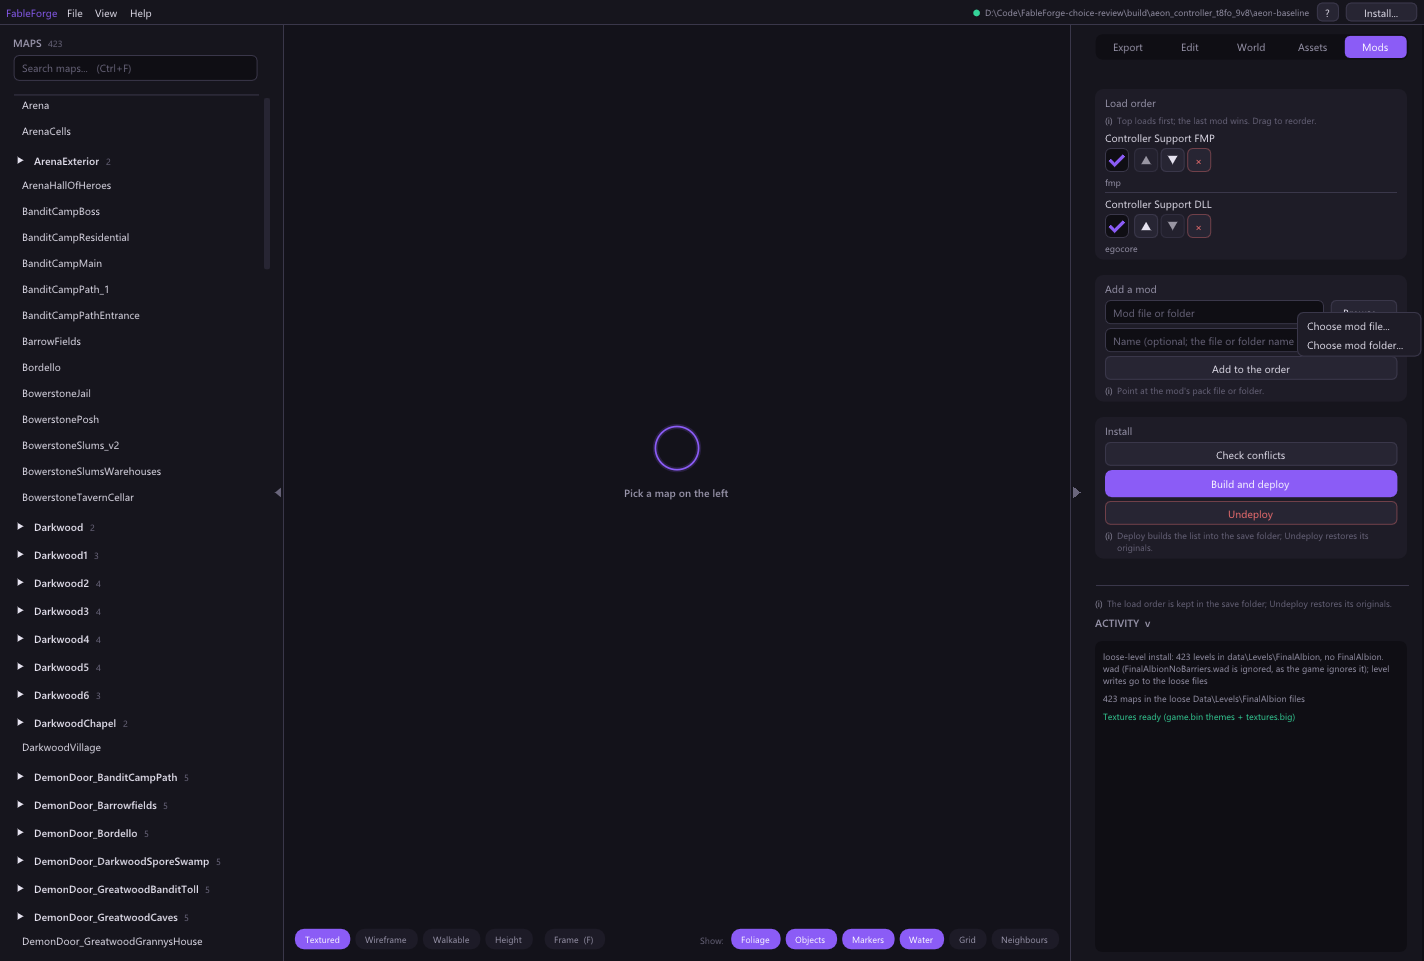
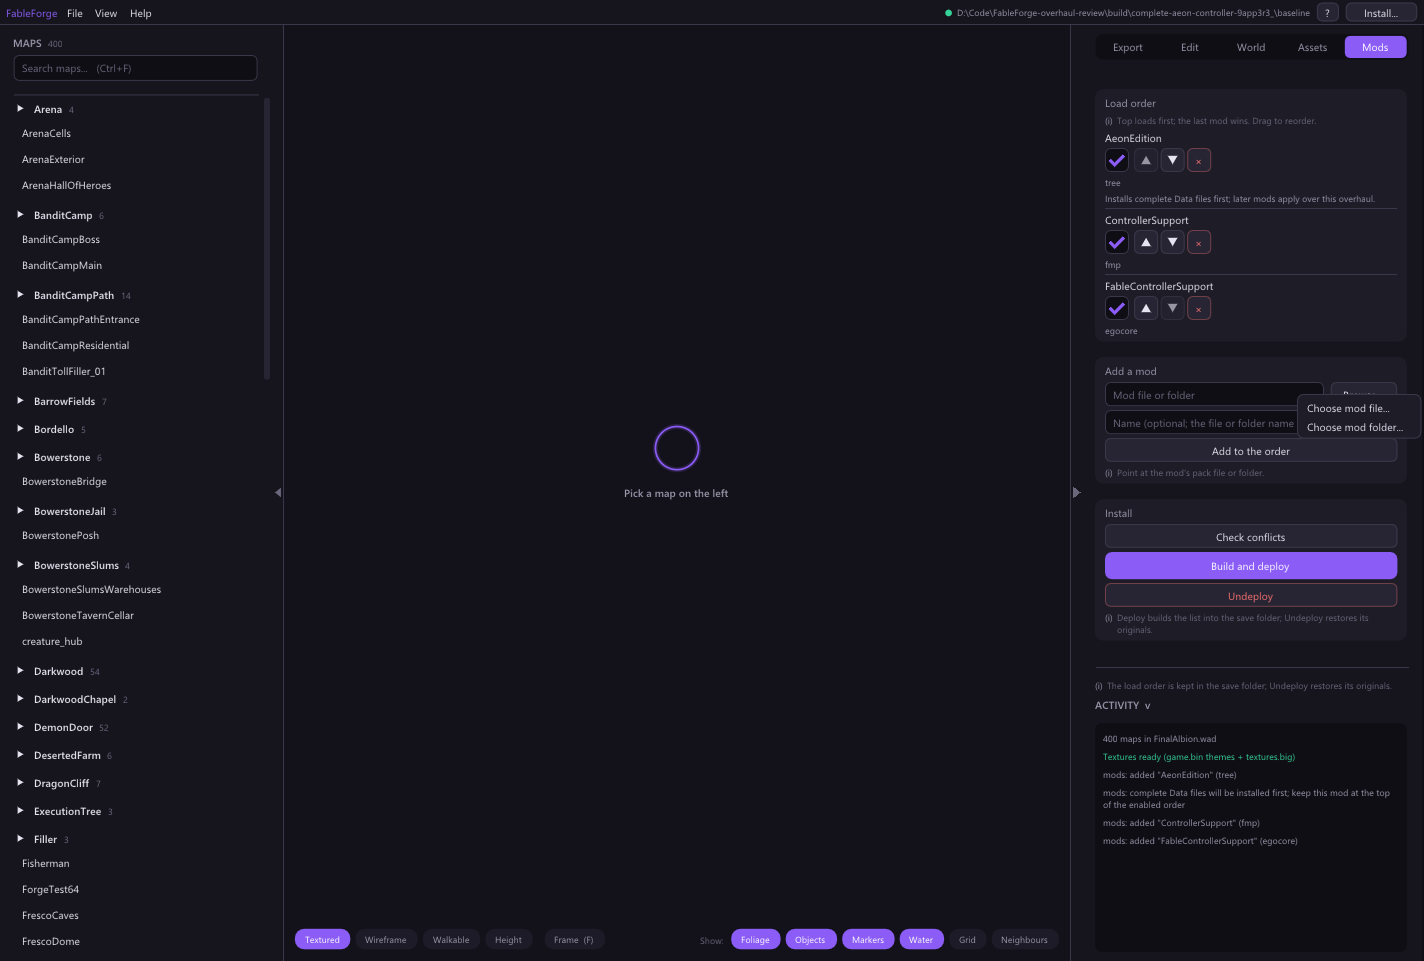
fix: validate complete Aeon installation and guide
(cherry picked from commit 571d2d05c88be84a5fdac0f08303395926a84dd1)

diff --git a/docs/walkthrough/aeon-controller/index.html b/docs/walkthrough/aeon-controller/index.html
@@ -45,5 +45,5 @@
 <p>Copy the complete game folder, including <code>Mods</code>, <code>Mods.ini</code> and EgoCore runtime files, to a separate location in the Android Windows environment you use. Keep the known working PC copy. Use the same runtime-loading route.</p>
 <p>If it crashes, compare separate copies of the unmodified game, Aeon alone and Aeon with the controller. Record the exact crash point, executable version, Windows environment/version and available loader or crash logs.</p></section>
 <p><strong>Offline preservation checks:</strong> Forge's original three-source route preserves all 16,362 existing Aeon records outside the five intended FMP imports, including all 6,625 unnamed entries. All 14 supported controller references resolve. The test checks 942 other source files, all 843 authored level payloads in the rebuilt WAD, the unchanged DLL and unchanged source inventories. Small packed and loose fixtures also check deployment and exact undeployment.</p>
-<p><small>Updated 3 October 2026. The original author Discord reports drive these installer regression checks. Third-party game/mod files are not included. No gameplay or Android test was performed.</small></p>
+<p><small>Updated 4 October 2026. The screenshots show the actual three-source GUI run on a disposable game copy. The original author Discord reports drive these installer regression checks. Third-party game/mod files are not included. No gameplay or Android test was performed.</small></p>
 </main></html>

diff --git a/tools/capture_complete_aeon_guide.py b/tools/capture_complete_aeon_guide.py
@@ -1,8 +1,23 @@
 #!/usr/bin/env python3
 """Exercise original three sources via actual GUI Add and capture the guide."""
-import argparse, json, os, shutil, subprocess, time
+import argparse, hashlib, json, os, shutil, subprocess, time
 from pathlib import Path
 from test_mod_bank_refusal import snapshot
+
+
+def install_snapshot(root, registered):
+    if not registered:
+        return {k:v for k,v in snapshot(root).items() if k != 'forge_mods.json'}
+    # The original full tree was checked during the normal run. The resumed
+    # compact run checks every path plus the installed banks/WAD/graphics.
+    paths = sorted(str(p.relative_to(root)) for p in root.rglob('*') if p.is_file()
+                   and p.name != 'forge_mods.json')
+    selected = [p for p in paths if p.startswith('data\\CompiledDefs\\') or
+                p.startswith('data/CompiledDefs/') or
+                p.replace('\\','/') in ('data/Levels/FinalAlbion.wad',
+                                         'data/graphics/graphics.big')]
+    return {'paths':paths, 'digests':{p:hashlib.sha256((root/p).read_bytes()).hexdigest()
+                                     for p in selected}}
 
 
 def main():
@@ -11,6 +26,9 @@ def main():
     p.add_argument('evidence', type=Path)
     p.add_argument('--corpus', type=Path, required=True)
     p.add_argument('--install', type=Path, required=True)
+    p.add_argument('--registered', action='store_true',
+                   help='Resume from an order whose three sources were already added by the GUI')
+    p.add_argument('--size', choices=('normal', 'compact', 'both'), default='both')
     args = p.parse_args()
     work = args.evidence.resolve()
     assert work.parent == (repo/'build').resolve() and work.name.startswith('complete-aeon-controller-')
@@ -18,25 +36,38 @@ def main():
     root = work/'baseline'
     assert not (root/'forge_stage_manifest.json').exists()
     # Complete the owned baseline's GUI preview assets; the live install is read only.
-    shutil.copytree(args.install/'data/graphics', root/'data/graphics', dirs_exist_ok=True)
-    original = {k:v for k,v in snapshot(root).items() if k != 'forge_mods.json'}
+    if not args.registered:
+        shutil.copytree(args.install/'data/graphics', root/'data/graphics', dirs_exist_ok=True)
+    else:
+        assert (root/'data/graphics/graphics.big').is_file()
+    original = install_snapshot(root, args.registered)
     sources = [args.corpus/'AeonEdition/Data', args.corpus/'ControllerSupportFMP/ControllerSupport.fmp',
                args.corpus/'FableControllerSupport/Mods/FableControllerSupport']
+    if args.registered:
+        order = json.loads((root/'forge_mods.json').read_text())['mods']
+        assert len(order) == 3 and order[0]['install_data']
+        assert Path(order[0]['source']) == sources[0].parent
+        assert [Path(row['source']) for row in order[1:]] == sources[1:]
     shots = repo/'docs/walkthrough/aeon-controller'
     def button(name, wait=False):
         lines = [f'reveal {name}','frames 3',f'reveal {name}','frames 3',f'click {name}','frames 3']
         return lines+(['wait_mods','wait_ready','frames 3'] if wait else [])
-    for size,scale in [('1440x1000',1),('800x600',1.5)]:
+    sizes = {'normal':[('1440x1000',1)], 'compact':[('800x600',1.5)],
+             'both':[('1440x1000',1),('800x600',1.5)]}[args.size]
+    for size,scale in sizes:
         case = work/(f'gui-{size}-{time.time_ns()}'); case.mkdir()
-        if (root/'forge_mods.json').exists(): (root/'forge_mods.json').unlink()
+        if not args.registered and (root/'forge_mods.json').exists(): (root/'forge_mods.json').unlink()
         script = case/'guide.txt'
         # Never use preexisting guide illustrations as deployment checkpoints.
         # Publish captures into docs only after the entire owned GUI run passes.
         images = case
         lines = ['wait_maps','wait_ready','setup 0',f'set uiscale {scale}','mods_tab 1','frames 4']
-        for index, source in enumerate(sources):
-            lines += button('input_mod_path')+[f'text_input {source.as_posix()}','frames 3']
-            lines += button('btn_mod_add')+[f'assert_state mods_count {index+1}']
+        if args.registered:
+            lines += ['assert_state mods_count 3']
+        else:
+            for index, source in enumerate(sources):
+                lines += button('input_mod_path')+[f'text_input {source.as_posix()}','frames 3']
+                lines += button('btn_mod_add')+[f'assert_state mods_count {index+1}']
         lines += ['assert_state mod_action_failed 0','clear_toasts',
                   f'screenshot {(images/"01-order.png").as_posix()}']
         lines += button('input_mod_path_browse')+[f'screenshot {(images/"02-add.png").as_posix()}',
@@ -59,7 +90,7 @@ def main():
                 env=dict(os.environ,FABLEFORGE_AUTOMATION_HIDDEN='1',APPDATA=str(case/'appdata'),
                          LOCALAPPDATA=str(case/'localappdata')))
             try:
-                deadline = time.monotonic()+1800
+                deadline = time.monotonic()+7200
                 checkpoint = images/'04-deploy.png'
                 while not checkpoint.exists() and proc.poll() is None and time.monotonic()<deadline:
                     time.sleep(.1)
@@ -76,13 +107,16 @@ def main():
         order = json.loads((root/'forge_mods.json').read_text())['mods']
         assert len(order)==3 and order[0]['install_data']
         assert Path(order[0]['source'])==sources[0].parent
-        assert {k:v for k,v in snapshot(root).items() if k!='forge_mods.json'} == original
+        assert install_snapshot(root, args.registered) == original
         if scale == 1:
             for name in ('01-order.png','02-add.png','03-check.png','04-deploy.png'):
                 shutil.copyfile(case/name, shots/name)
-        print(size,'original three sources, actual Add/check/deploy/redeploy/undeploy: PASS',flush=True)
-    (work/'gui-result.json').write_text(json.dumps({'passed':True,'sizes':['1440x1000','800x600'],
-                                                  'gameplay_tested':False},indent=2))
+        steps = 'registered order/check/deploy/redeploy/undeploy' if args.registered else \
+                'actual Add/check/deploy/redeploy/undeploy'
+        print(size,'original three sources, '+steps+': PASS',flush=True)
+    (work/f'gui-result-{args.size}.json').write_text(json.dumps(
+        {'passed':True,'sizes':[size for size,_ in sizes],
+         'registered_order':args.registered,'gameplay_tested':False},indent=2))
 
 
 if __name__ == '__main__': main()

diff --git a/tools/test_unreadable_file_compare.py b/tools/test_unreadable_file_compare.py
@@ -1,0 +1,65 @@
+#!/usr/bin/env python3
+"""A locked same-size source must never be treated as unchanged."""
+import argparse
+import ctypes
+import hashlib
+import json
+import subprocess
+import tempfile
+from pathlib import Path
+from test_mod_field_details import write_bank
+
+
+def digest(path):
+    return hashlib.sha256(path.read_bytes()).hexdigest()
+
+
+def main():
+    repo = Path(__file__).resolve().parents[1]
+    parser = argparse.ArgumentParser(description=__doc__)
+    parser.add_argument('--tool', type=Path, default=repo/'build/forge-tools.exe')
+    args = parser.parse_args()
+    work = Path(tempfile.mkdtemp(prefix='unreadable-file-compare-', dir=repo/'build'))
+    base, source, out = (work/name for name in ('base', 'source', 'output'))
+    write_bank(base, (1, 2, 3, 4))
+    for root in (base, source):
+        (root/'data/Misc').mkdir(parents=True)
+    (base/'data/Misc/shared.asset').write_bytes(b'baseline')
+    changed = source/'data/Misc/shared.asset'
+    changed.write_bytes(b'newbytes')
+    out.mkdir()
+    prior = out/'prior.txt'
+    prior.write_bytes(b'keep me')
+    source_hash, prior_hash = digest(changed), digest(prior)
+    command = [str(args.tool.resolve()), 'mods', 'merge', str(base), str(out),
+               '--with', str(source), '--json']
+
+    kernel = ctypes.WinDLL('kernel32', use_last_error=True)
+    kernel.CreateFileW.argtypes = [ctypes.c_wchar_p, ctypes.c_uint32, ctypes.c_uint32,
+                                   ctypes.c_void_p, ctypes.c_uint32, ctypes.c_uint32,
+                                   ctypes.c_void_p]
+    kernel.CreateFileW.restype = ctypes.c_void_p
+    kernel.CloseHandle.argtypes = [ctypes.c_void_p]
+    handle = kernel.CreateFileW(str(changed), 0x80000000, 0, None, 3, 0, None)
+    assert handle != ctypes.c_void_p(-1).value, ctypes.get_last_error()
+    try:
+        locked = subprocess.run(command, cwd=repo, capture_output=True, timeout=120)
+    finally:
+        kernel.CloseHandle(handle)
+    (work/'locked.log').write_bytes(locked.stdout + locked.stderr)
+    assert locked.returncode != 0, locked.stdout.decode(errors='replace')
+    assert b'cannot read' in locked.stderr, locked.stderr
+    assert digest(changed) == source_hash and digest(prior) == prior_hash
+    assert not (out/'data/Misc/shared.asset').exists()
+
+    unlocked = subprocess.run(command, cwd=repo, capture_output=True, timeout=120)
+    (work/'unlocked.log').write_bytes(unlocked.stdout + unlocked.stderr)
+    assert unlocked.returncode == 0, unlocked.stderr
+    assert isinstance(json.loads(unlocked.stdout), dict)
+    assert (out/'data/Misc/shared.asset').read_bytes() == b'newbytes'
+    assert digest(changed) == source_hash
+    print('locked same-size file refused; prior output preserved; unlocked retry applied:', work)
+
+
+if __name__ == '__main__':
+    main()

diff --git a/tools/forge-cli/main.cpp b/tools/forge-cli/main.cpp
@@ -7682,9 +7682,22 @@ int questMaster(const std::string& qstPath,
 // two files byte-identical? Streamed (the GB packs ship 900 MB STBs), size first.
 bool filesIdentical(const std::filesystem::path& a, const std::filesystem::path& b) {
     std::error_code ec;
-    if (!std::filesystem::exists(a, ec) || !std::filesystem::exists(b, ec)) return false;
-    if (std::filesystem::file_size(a, ec) != std::filesystem::file_size(b, ec)) return false;
+    if (!std::filesystem::exists(a, ec)) {
+        if (ec) throw std::runtime_error("cannot inspect " + a.string() + ": " + ec.message());
+        return false;
+    }
+    if (!std::filesystem::exists(b, ec)) {
+        if (ec) throw std::runtime_error("cannot inspect " + b.string() + ": " + ec.message());
+        return false;
+    }
+    const auto aSize = std::filesystem::file_size(a, ec);
+    if (ec) throw std::runtime_error("cannot inspect " + a.string() + ": " + ec.message());
+    const auto bSize = std::filesystem::file_size(b, ec);
+    if (ec) throw std::runtime_error("cannot inspect " + b.string() + ": " + ec.message());
+    if (aSize != bSize) return false;
     std::ifstream fa(a, std::ios::binary), fb(b, std::ios::binary);
+    if (!fa) throw std::runtime_error("cannot read " + a.string());
+    if (!fb) throw std::runtime_error("cannot read " + b.string());
     std::vector<char> ba(1 << 20), bb(1 << 20);
     while (fa && fb) {
         fa.read(ba.data(), std::streamsize(ba.size()));
@@ -7692,6 +7705,7 @@ bool filesIdentical(const std::filesystem::path& a, const std::filesystem::path&
         if (fa.gcount() != fb.gcount() || !std::equal(ba.begin(), ba.begin() + fa.gcount(), bb.begin())) return false;
         if (fa.gcount() == 0) break;
     }
+    if (fa.bad() || fb.bad()) throw std::runtime_error("cannot finish reading " + a.string() + " or " + b.string());
     return true;
 }
 

diff --git a/tools/package.py b/tools/package.py
@@ -81,8 +81,8 @@ def package_guide(root, output=None):
             archive.write(guide_dir / shot, shot)
         archive.writestr("README.txt",
             "Extract this ZIP, then open AEON_CONTROLLER.html in your browser.\n\n"
-            "Use the application build specified in the guide; named FMP linking and unnamed-component refusal are required.\n"
-            "Install and verify Aeon Edition first, then add only the controller FMP and DLL in Forge.\n"
+            "Use the updated application build specified in the guide; the older rc.3 rejects this route.\n"
+            "Add the extracted Aeon folder (or its Data folder), controller FMP and original controller runtime folder in Forge, in that order.\n"
             "Download FableForge separately from:\n"
             f"{download}\n\n"
             "This ZIP contains only the illustrated guide, not the application or mods.\n")
@@ -125,6 +125,7 @@ def main():
     for doc in ["FIRST_LEVEL.md", "ENGINE_RULES.md", "EDITOR.md", "AUTOMATION.md", "CLI.md"]:
         readme = readme.replace("docs/" + doc, doc)
     readme = readme.replace("docs/guide/", "guide/")
+    readme = readme.replace("docs/walkthrough/aeon-controller/index.html", "AEON_CONTROLLER.html")
     readme = readme.replace("vendor/EgoCore-LICENSE.txt", "EgoCore-LICENSE.txt")
     readme = readme.replace("vendor/VENDORED.md", "THIRD_PARTY.md")
     readme += "\nIllustrated Aeon Edition + Controller Support setup: open [AEON_CONTROLLER.html](AEON_CONTROLLER.html) in your browser.\n"

diff --git a/tools/check_all.py b/tools/check_all.py
@@ -223,6 +223,8 @@ def main():
     ok &= run("overworld moves (scratch install + World tab)", [sys.executable, "tools/test_overworld.py"], capture_output=True)
     ok &= run("textures tab (scratch textures.big)", [sys.executable, "tools/test_textures.py"], capture_output=True)
     ok &= run("mod load order (scratch root; skips without the corpus)", [sys.executable, "tools/test_mods.py"], capture_output=True)
+    ok &= run("locked same-size mod file refuses comparison and retries after unlock",
+              [sys.executable, "tools/test_unreadable_file_compare.py"], capture_output=True)
     ok &= run("Aeon baseline preservation + Controller Support (scratch loose levels; skips without the corpus)",
               [sys.executable, "tools/test_aeon_controller.py"], capture_output=True)
     ok &= run("Freeroam FMP walkability (76 LEVs through scratch WAD; skips without corpus)",

diff --git a/tools/test_mod_action_error_ui.py b/tools/test_mod_action_error_ui.py
@@ -46,7 +46,7 @@ def main():
         source = work/'invalid-report.cpp'
         source.write_text('#include <cstdio>\n#include <cstdlib>\nint main() { const char* schema = std::getenv("FORGE_TEST_REPORT_SCHEMA"); std::puts(schema && *schema ? "{}" : "not a JSON report"); return 0; }\n', encoding='utf-8')
         cache = (repo/'build/CMakeCache.txt').read_text(encoding='utf-8')
-        compiler = re.search(r'^CMAKE_CXX_COMPILER:FILEPATH=(.+)$', cache, re.M).group(1)
+        compiler = re.search(r'^CMAKE_CXX_COMPILER:(?:FILEPATH|STRING)=(.+)$', cache, re.M).group(1)
         helper = work/'invalid-report.exe'
         subprocess.run([compiler, '-static', str(source), '-o', str(helper)],
             cwd=cwd, check=True, capture_output=True, timeout=60)

diff --git a/tools/test_loose_save_guard.py b/tools/test_loose_save_guard.py
@@ -39,7 +39,7 @@ def main():
         wad.rename(renamed)
     source = work / 'hold.cpp'
     source.write_text('#include <windows.h>\n#include <cstdio>\nint main() { puts("ready"); fflush(stdout); Sleep(180000); }\n')
-    compiler = re.search(r'^CMAKE_CXX_COMPILER:FILEPATH=(.+)$', (repo / 'build/CMakeCache.txt').read_text(), re.MULTILINE).group(1)
+    compiler = re.search(r'^CMAKE_CXX_COMPILER:(?:FILEPATH|STRING)=(.+)$', (repo / 'build/CMakeCache.txt').read_text(), re.MULTILINE).group(1)
     helper = root / 'Fable.exe'
     subprocess.run([compiler, str(source), '-o', str(helper)], check=True, capture_output=True, timeout=60)
     def snapshot():

diff --git a/tools/test_setup_missing_bank_ui.py b/tools/test_setup_missing_bank_ui.py
@@ -31,7 +31,7 @@ def main():
     source = work/'hold.cpp'
     source.write_text('#include <windows.h>\n#include <cstdio>\nint main() { puts("ready"); fflush(stdout); Sleep(60000); }\n')
     cache = (repo/'build/CMakeCache.txt').read_text()
-    compiler = re.search(r'^CMAKE_CXX_COMPILER:FILEPATH=(.+)$', cache, re.MULTILINE).group(1)
+    compiler = re.search(r'^CMAKE_CXX_COMPILER:(?:FILEPATH|STRING)=(.+)$', cache, re.MULTILINE).group(1)
     helper = work/'hold.exe'
     subprocess.run([compiler, str(source), '-o', str(helper)], check=True, capture_output=True, timeout=60)
     source_digest = digest(args.wad) if args.wad else None

diff --git a/tools/test_cli_write_guard.py b/tools/test_cli_write_guard.py
@@ -42,7 +42,7 @@ def main():
     source = work / 'hold.cpp'
     source.write_text('#include <windows.h>\n#include <cstdio>\nint main() { puts("ready"); fflush(stdout); Sleep(180000); }\n')
     cache = (repo / 'build/CMakeCache.txt').read_text()
-    compiler = re.search(r'^CMAKE_CXX_COMPILER:FILEPATH=(.+)$', cache, re.MULTILINE).group(1)
+    compiler = re.search(r'^CMAKE_CXX_COMPILER:(?:FILEPATH|STRING)=(.+)$', cache, re.MULTILINE).group(1)
     helper = root / 'Fable.exe'
     subprocess.run([compiler, str(source), '-o', str(helper)], check=True, capture_output=True, timeout=60)
     def run(label, *command):

diff --git a/tools/test_install_guard.py b/tools/test_install_guard.py
@@ -22,7 +22,7 @@ def main():
     source = work / 'hold.cpp'
     source.write_text('#include <windows.h>\n#include <cstdio>\nint main() { puts("ready"); fflush(stdout); Sleep(60000); }\n')
     cache = (repo / 'build/CMakeCache.txt').read_text()
-    compiler = re.search(r'^CMAKE_CXX_COMPILER:FILEPATH=(.+)$', cache, re.MULTILINE).group(1)
+    compiler = re.search(r'^CMAKE_CXX_COMPILER:(?:FILEPATH|STRING)=(.+)$', cache, re.MULTILINE).group(1)
     helper = work / 'hold.exe'
     subprocess.run([compiler, str(source), '-o', str(helper)], check=True, capture_output=True, timeout=60)
     root = work / 'install'

diff --git a/tools/test_egocore_unicode_paths.py b/tools/test_egocore_unicode_paths.py
@@ -56,7 +56,7 @@ int wmain(int argc, wchar_t** argv) {
 }
 ''', encoding='utf-8')
     cache = (repo/'build/CMakeCache.txt').read_text(encoding='utf-8')
-    compiler = re.search(r'^CMAKE_CXX_COMPILER:FILEPATH=(.+)$', cache, re.M).group(1)
+    compiler = re.search(r'^CMAKE_CXX_COMPILER:(?:FILEPATH|STRING)=(.+)$', cache, re.M).group(1)
     helper = work/'fail-compiler.exe'
     subprocess.run([compiler, '-std=c++20', '-static', '-municode', str(source), '-o', str(helper)],
         cwd=work, check=True, capture_output=True, timeout=60)
